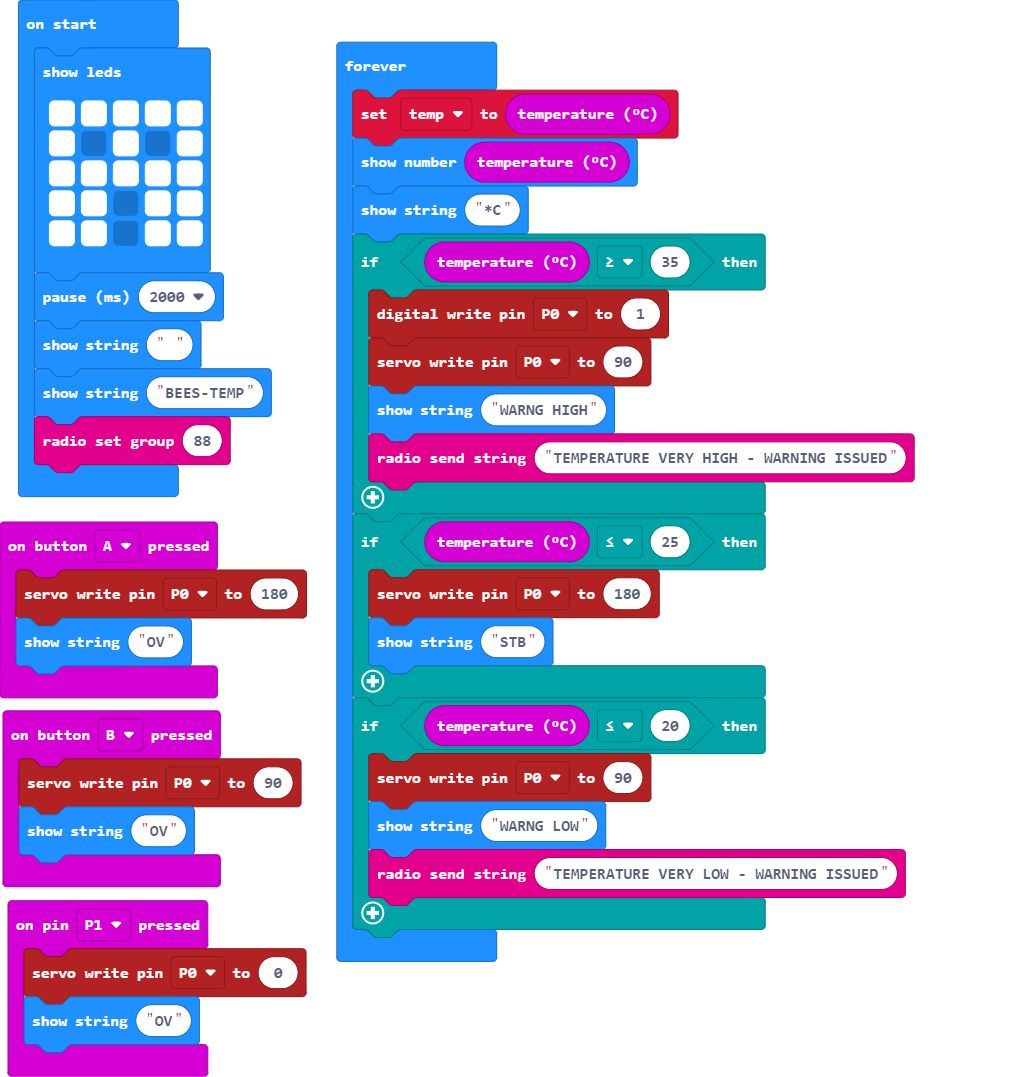
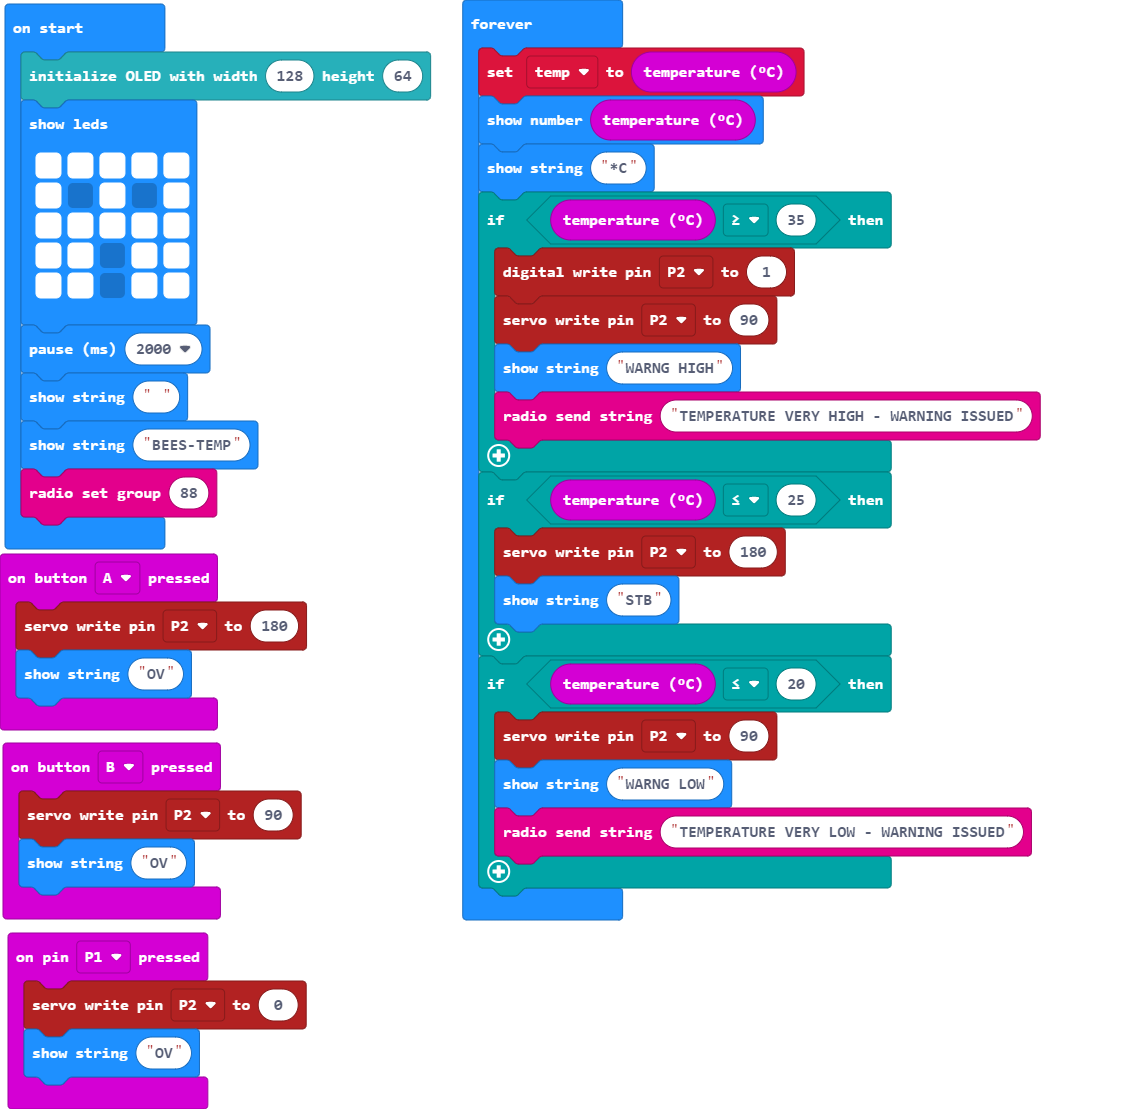
Update pxt.json, main.blocks, main.ts

diff --git a/main.ts b/main.ts
@@ -1,16 +1,17 @@
 input.onButtonPressed(Button.A, function () {
-    pins.servoWritePin(AnalogPin.P0, 180)
+    pins.servoWritePin(AnalogPin.P2, 180)
     basic.showString("OV")
 })
 input.onButtonPressed(Button.B, function () {
-    pins.servoWritePin(AnalogPin.P0, 90)
+    pins.servoWritePin(AnalogPin.P2, 90)
     basic.showString("OV")
 })
 input.onPinPressed(TouchPin.P1, function () {
-    pins.servoWritePin(AnalogPin.P0, 0)
+    pins.servoWritePin(AnalogPin.P2, 0)
     basic.showString("OV")
 })
 let temp = 0
+OLED.init(128, 64)
 basic.showLeds(`
     # # # # #
     # . # . #
@@ -27,17 +28,17 @@ basic.forever(function () {
     basic.showNumber(input.temperature())
     basic.showString("*C")
     if (input.temperature() >= 35) {
-        pins.digitalWritePin(DigitalPin.P0, 1)
-        pins.servoWritePin(AnalogPin.P0, 90)
+        pins.digitalWritePin(DigitalPin.P2, 1)
+        pins.servoWritePin(AnalogPin.P2, 90)
         basic.showString("WARNG HIGH")
         radio.sendString("TEMPERATURE VERY HIGH - WARNING ISSUED")
     }
     if (input.temperature() <= 25) {
-        pins.servoWritePin(AnalogPin.P0, 180)
+        pins.servoWritePin(AnalogPin.P2, 180)
         basic.showString("STB")
     }
     if (input.temperature() <= 20) {
-        pins.servoWritePin(AnalogPin.P0, 90)
+        pins.servoWritePin(AnalogPin.P2, 90)
         basic.showString("WARNG LOW")
         radio.sendString("TEMPERATURE VERY LOW - WARNING ISSUED")
     }
